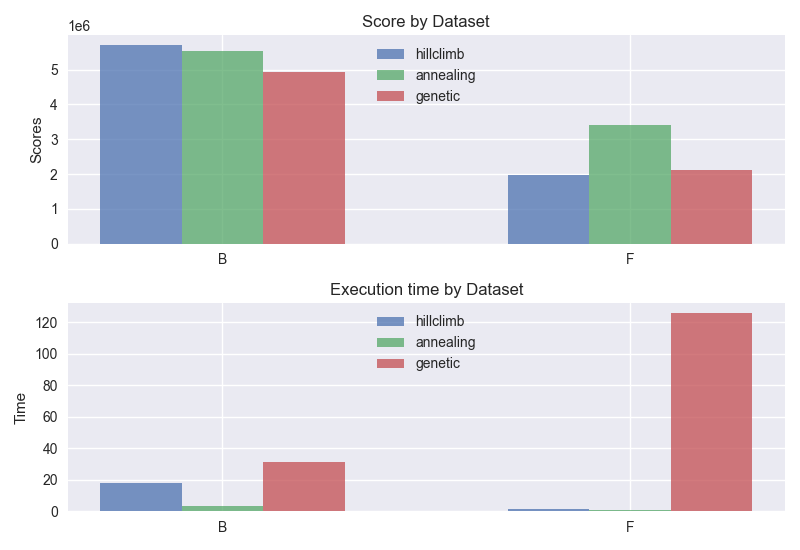
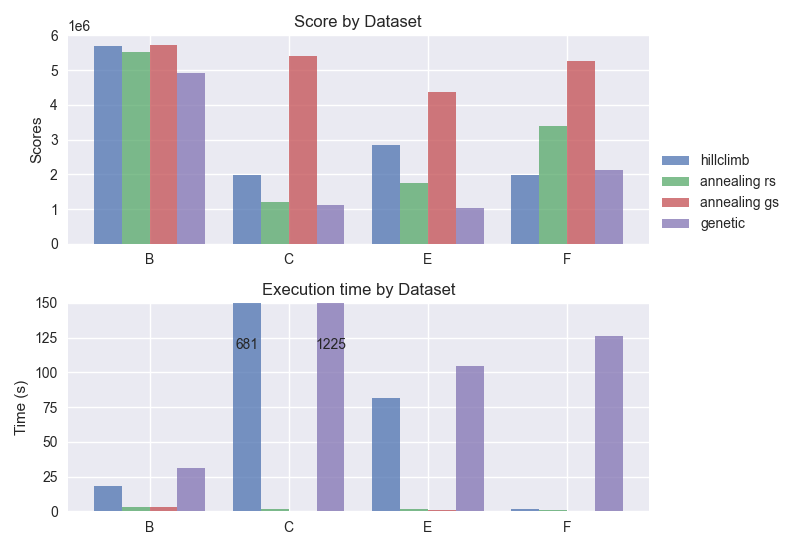
Added more stats and updated README

diff --git a/plotting/dataset_scores.py b/plotting/dataset_scores.py
@@ -10,37 +10,55 @@ axs = fig.subplots(2, 1)
 times = {
     'hillclimb': {
         'b': [18.433037996292114, 18.228569984436035, 21.56929898262024, 16.3922278881073, 15.825484037399292],
+        'c': [698.9104669094086, 672.6828520298004, 672.4158980846405],
         'e': [83.57326602935791, 79.71586894989014, 80.75503087043762],
         'f': [1.1457018852233887, 1.5012421607971191, 1.1962449550628662],
     },
     'genetic': {
         'b': [34.58673715591431, 30.035337924957275, 29.390383005142212],
+        'c': [1228.0823121070862, 1215.7536449432373, 1230.9619481563568],
         'e': [103.24016094207764, 103.91299200057983, 105.62652802467346],
         'f': [125.81935095787048, 125.31872797012329, 126.56094288825989],
     },
-    'annealing': {
+    'annealing rs': {
         'b': [3.026703119277954, 3.386115074157715, 3.2145931720733643],
-        'e': [105.62652802467346, 103.91299200057983, 103.24016094207764],
+        'c': [0.40021491050720215, 0.4038259983062744, 0.39359593391418457],
+        'e': [0.6259291172027588, 0.6351079940795898, 0.6470639705657959],
         'f': [0.49098706245422363, 0.5196659564971924, 0.5149869918823242],
-    }
+    },
+    'annealing gs': {
+        'b': [2.9388749599456787, 3.0284500122070312, 2.9869210720062256],
+        'c': [1.3600568771362305, 1.3616337776184082, 1.405686855316162],
+        'e': [1.3402838706970215, 1.333543062210083, 1.367056131362915],
+        'f': [1.0113999843597412, 0.9845149517059326, 1.0045998096466064],
+    },
 }
 
 scores = {
     'hillclimb': {
         'b': [5766200, 5702400, 5694000, 5735900, 5588000],
+        'c': [1987935, 1939654, 1977192],
         'e': [2885225, 2831406, 2849203],
         'f': [2014381, 2080571, 1869776],
     },
     'genetic': {
         'b': [4836500, 4830700, 5094400],
+        'c': [1103240, 1171043, 1086709],
         'e': [994063, 1115685, 1020149],
         'f': [2048876, 2367734, 1979183],
     },
-    'annealing': {
+    'annealing rs': {
         'b': [5472700, 5541200, 5581800],
-        'e': [2831406, 2849203, 2885225],
+        'c': [1264497, 1223781, 1164575],
+        'e': [1732760, 1731381, 1774949],
         'f': [3335864, 3431130, 3435196],
-    }
+    },
+    'annealing gs': {
+        'b': [5700100, 5710100, 5735800],
+        'c': [5373493, 5461276, 5391196],
+        'e': [4312187, 4355104, 4467101],
+        'f': [5301656, 5242866, 5259489],
+    },
 }
 
 def extract_data(data, key):
@@ -49,30 +67,37 @@ def extract_data(data, key):
 score_hist = axs[0]
 
 w = 0.2
-labels = ['B', 'F']
+labels = ['B', 'C', 'E', 'F']
 x = np.arange(len(labels))
 
-score_hist.bar(x - w, extract_data(scores, 'hillclimb'), w, label='hillclimb', alpha=.75)
-score_hist.bar(x, extract_data(scores, 'annealing'), w, label='annealing', alpha=.75)
-score_hist.bar(x + w, extract_data(scores, 'genetic'), w, label='genetic', alpha=.75)
+score_hist.bar(x - 1.5 * w, extract_data(scores, 'hillclimb'), w, label='hillclimb', alpha=.75)
+score_hist.bar(x - 0.5 * w, extract_data(scores, 'annealing rs'), w, label='annealing rs', alpha=.75)
+score_hist.bar(x + 0.5 * w, extract_data(scores, 'annealing gs'), w, label='annealing gs', alpha=.75)
+score_hist.bar(x + 1.5 * w, extract_data(scores, 'genetic'), w, label='genetic', alpha=.75)
 
 score_hist.set_ylabel('Scores')
 score_hist.set_title('Score by Dataset')
 score_hist.set_xticks(x)
 score_hist.set_xticklabels(labels)
-score_hist.legend(loc="upper center")
+score_hist.legend(bbox_to_anchor=(1, 0), loc="lower left")
 
 time_hist = axs[1]
 
-time_hist.bar(x - w, extract_data(times, 'hillclimb'), w, label='hillclimb', alpha=.75)
-time_hist.bar(x, extract_data(times, 'annealing'), w, label='annealing', alpha=.75)
-time_hist.bar(x + w, extract_data(times, 'genetic'), w, label='genetic', alpha=.75)
+time_hist.bar(x - 1.5 * w, extract_data(times, 'hillclimb'), w, label='hillclimb', alpha=.75)
+time_hist.bar(x - 0.5 * w, extract_data(times, 'annealing gs'), w, label='annealing gs', alpha=.75)
+time_hist.bar(x + 0.5 * w, extract_data(times, 'annealing rs'), w, label='annealing rs', alpha=.75)
+time_hist.bar(x + 1.5 * w, extract_data(times, 'genetic'), w, label='genetic', alpha=.75)
 
-time_hist.set_ylabel('Time')
+# Plot known times that are WAY too large
+time_hist.text(1 - 1.5 * w, 150 / 1.25, "{:.0f}".format(np.mean(times['hillclimb']['c'])), ha='center', va='center')
+time_hist.text(1 + 1.5 * w, 150 / 1.25, "{:.0f}".format(np.mean(times['genetic']['c'])), ha='center', va='center')
+
+time_hist.set_ylabel('Time (s)')
 time_hist.set_title('Execution time by Dataset')
 time_hist.set_xticks(x)
 time_hist.set_xticklabels(labels)
-time_hist.legend(loc="upper center")
+
+time_hist.set_ylim(top=150)
 
 fig.tight_layout()
 

diff --git a/plotting/genetic_stats.py b/plotting/genetic_stats.py
@@ -1,0 +1,46 @@
+import matplotlib.pyplot as plt
+import numpy as np
+
+plt.style.use('seaborn')
+
+fig = plt.figure()
+ax = fig.subplots()
+
+scores = {
+    'single point': {
+        0: [5458300, 5423100, 5377900, 5395900, 5245600],
+        0.05: [5225000, 5425300, 5410400, 5346600, 5393800],
+        0.1: [5229100, 5232700, 5370000, 5427700, 5385000, 5356300, 5225300, 5429700, 5404200, 5336700],
+        0.15: [5348300, 5393500, 5448700, 5341900, 5326500, 5275900, 5388300, 5185800, 5385700, 5274200],
+        0.2: [5375200, 5275700, 5354300, 5357100, 5301100],
+    },
+    'ox1': {
+        0: [5108100, 5207900, 5097500, 5197700, 5125000],
+        0.05: [5169800, 5194100, 5182300, 5153400, 5003000],
+        0.1: [5267500, 5293400, 5206400, 5178100, 5183700, 5167200, 5034500, 5058700, 5100100, 5196200, 5055100, 5105700],
+        0.15: [5084900, 5065900, 5217100, 5147800, 5244300, 5262300, 5166400, 5254000],
+        0.2: [4990600, 5160000, 5074200, 5188900, 5133700],
+    },
+}
+
+def extract_data(data, key):
+    return [np.mean(val) for val in data[key].values()]
+
+def to_percent(it):
+    return [v * 100 for v in it]
+
+ax.plot(to_percent(scores['single point'].keys()), extract_data(scores, 'single point'), marker='.', label='Single Point Crossover')
+ax.plot(to_percent(scores['ox1'].keys()), extract_data(scores, 'ox1'), marker='.', label='OX1')
+
+ax.set_xlabel('Mutation Chance (%)')
+ax.set_ylabel('Score')
+
+ax.set_title('Genetic Algorithm ~ Score by Mutation Chance')
+
+ax.legend()
+
+fig.tight_layout()
+
+fig.savefig('genetic_stats.png')
+plt.show()
+

diff --git a/args.py b/args.py
@@ -32,7 +32,7 @@ def parse_args():
     parser.add_argument("-g", "--genetic", "--gen", action="store_true", help = "Use genetic algorithm")
     parser.add_argument("-gg", "--gen-generations", action="store", nargs=1, type=int, default=[100], help="Genetic algorithm ~ Number of generations")
     parser.add_argument("-gp", "--gen-population", action="store", nargs=1, type=int, default=[50], help="Genetic algorithm ~ Population size")
-    parser.add_argument("-gm", "--gen-mutation-chance", action="store", nargs=1, type=float, default=[0.05], help="Genetic algorithm ~ Mutation chance")
+    parser.add_argument("-gm", "--gen-mutation-chance", action="store", nargs=1, type=float, default=[0.025], help="Genetic algorithm ~ Mutation chance")
     parser.add_argument("-g1pc", "--gen-one-point-crossover", action="store_true", help="Genetic algorithm ~ One point crossover operator")
     parser.add_argument("-g2pc", "--gen-two-point-crossover", action="store_true", help="Genetic algorithm ~ Two point crossover operator (OX1)")
 

diff --git a/problem.py b/problem.py
@@ -382,7 +382,7 @@ class Problem:
             if self.verbose:
                 print(f"Best neighbour: {sol.score} -------- Op: {best_op}")
         return solution
-            
+
 
 
     @timer
@@ -391,8 +391,6 @@ class Problem:
         The simple version of hill climbing is implemented.
         """
         solution = self.solution_initializer(self).eval()
-
-        print("REEEEEEE")
 
         flag = True #controls the while loop for the hill climb
 
@@ -509,7 +507,7 @@ class Problem:
         generation = 0
 
         parents.sort(reverse=True) #sorts the generation's solution os the worse can be replaced by the children
-        print(mutation_chance)
+
         while generation < max_generations:
             children = copy(parents)
 

diff --git a/README.md b/README.md
@@ -13,13 +13,14 @@ or
 
 ### Execution
 
-You can run using either `python main.py` or `pypy main.py` followed by the required arguments. Use `-h` to show the parameters that are also shown below:
+You can run using either `python main.py` or `pypy3 main.py` followed by the required arguments. Use `-h` to show the parameters that are also shown below:
 
 ```
 usage: main.py [-h] [-v] [-t {a,b,c,d,e,f}] [-s SEED] [-p] [-d] [--hill] [-sa]
                [-sat ANNEALING_TEMPERATURE] [-saic ANNEALING_INITIAL_COOLING]
                [-safc ANNEALING_FINAL_COOLING] [-g] [-gg GEN_GENERATIONS]
-               [-gp GEN_POPULATION] [-rs] [-os] [-gs]
+               [-gp GEN_POPULATION] [-gm GEN_MUTATION_CHANCE] [-g1pc] [-g2pc]
+               [-rs] [-os] [-gs]
 ```
 ```
 Book Scanning ~ IART Proj 1 g42
@@ -42,11 +43,17 @@ optional arguments:
                         Simulated initial annealing cooling
   -safc ANNEALING_FINAL_COOLING, --annealing-final-cooling ANNEALING_FINAL_COOLING
                         Simulated final annealing cooling
-  -g, --gen, --genetic  Use genetic algorithm
+  -g, --genetic, --gen  Use genetic algorithm
   -gg GEN_GENERATIONS, --gen-generations GEN_GENERATIONS
                         Genetic algorithm ~ Number of generations
   -gp GEN_POPULATION, --gen-population GEN_POPULATION
                         Genetic algorithm ~ Population size
+  -gm GEN_MUTATION_CHANCE, --gen-mutation-chance GEN_MUTATION_CHANCE
+                        Genetic algorithm ~ Mutation chance
+  -g1pc, --gen-one-point-crossover
+                        Genetic algorithm ~ One point crossover operator
+  -g2pc, --gen-two-point-crossover
+                        Genetic algorithm ~ Two point crossover operator (OX1)
   -rs, --random-start   Sets the inital solution to random
   -os, --ordered-start  Sets the inital solution to books ordered by score
   -gs, --greedy-start   Sets the inital solution to greedy search
